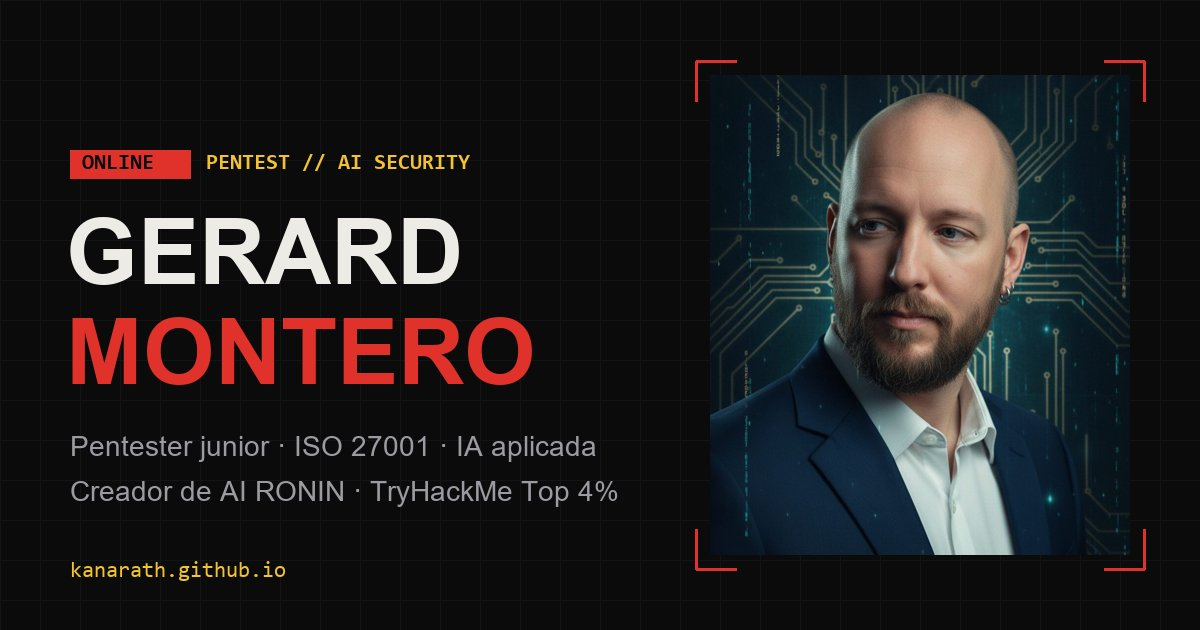
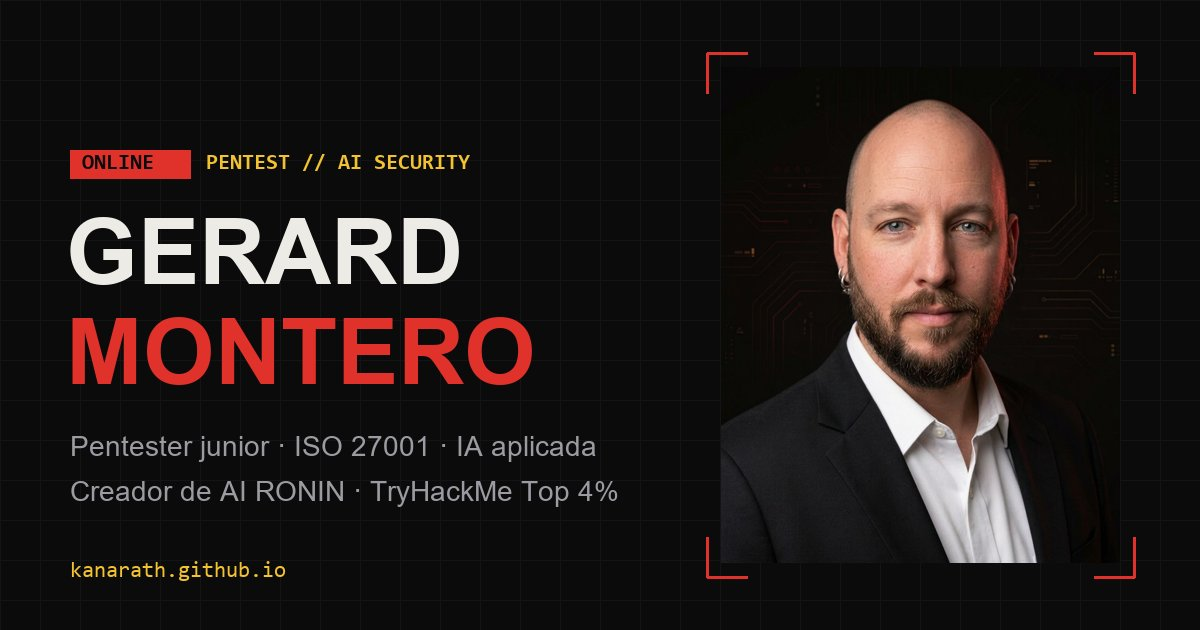
Foto nueva con la estética de la web

Changed region(s): [[0.555, 0.0603, 0.9558, 0.9349]]

diff --git a/styles.css b/styles.css
@@ -88,7 +88,7 @@ h1 span { color: var(--red); display: block; }
 .btn-ghost:hover { background: var(--amber); color: var(--bg); }
 
 .hero-photo { position: relative; padding: 20px; justify-self: center; max-width: 420px; width: 100%; }
-.hero-photo img { width: 100%; height: auto; aspect-ratio: 717 / 820; object-fit: cover; }
+.hero-photo img { width: 100%; height: auto; aspect-ratio: 720 / 894; object-fit: cover; }
 .hero-photo .c { position: absolute; width: 38px; height: 38px; border: 0 solid var(--red); }
 .hero-photo .a { top: 0; left: 0; border-width: 2px 0 0 2px; }
 .hero-photo .b { top: 0; right: 0; border-width: 2px 2px 0 0; }

diff --git a/index.html b/index.html
@@ -62,7 +62,7 @@
     <span class="lab">OPERATOR</span><span class="lab2">MATARÓ · BCN</span>
     <picture>
       <source srcset="img/gerard.webp" type="image/webp">
-      <img src="img/gerard.jpg" width="717" height="820" alt="Retrato de Gerard Montero">
+      <img src="img/gerard.jpg" width="720" height="894" alt="Retrato de Gerard Montero">
     </picture>
   </figure>
 </section>
